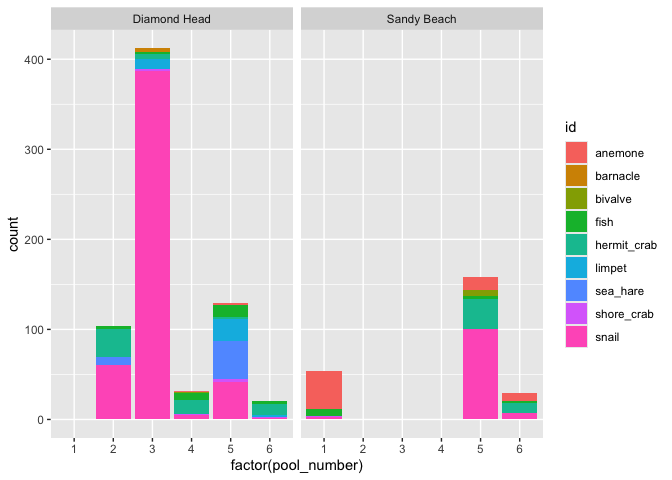
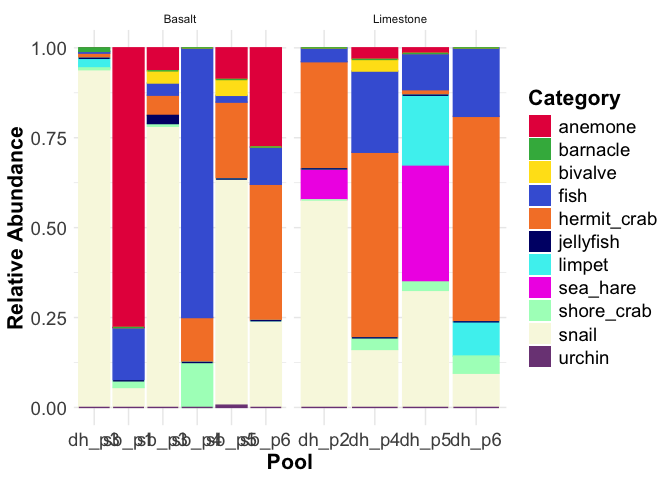
added community comp for last two pools

diff --git a/Test Sampling/Scripts/community_composition.md b/Test Sampling/Scripts/community_composition.md
@@ -7,24 +7,8 @@ Micaela Chapuis
 
 ``` r
 library(tidyverse)
-```
-
-    ## ── Attaching core tidyverse packages ──────────────────────── tidyverse 2.0.0 ──
-    ## ✔ dplyr     1.1.4     ✔ readr     2.1.5
-    ## ✔ forcats   1.0.0     ✔ stringr   1.5.1
-    ## ✔ ggplot2   3.5.1     ✔ tibble    3.2.1
-    ## ✔ lubridate 1.9.4     ✔ tidyr     1.3.1
-    ## ✔ purrr     1.0.2     
-    ## ── Conflicts ────────────────────────────────────────── tidyverse_conflicts() ──
-    ## ✖ dplyr::filter() masks stats::filter()
-    ## ✖ dplyr::lag()    masks stats::lag()
-    ## ℹ Use the conflicted package (<http://conflicted.r-lib.org/>) to force all conflicts to become errors
-
-``` r
 library(here)
 ```
-
-    ## here() starts at /Users/micachapuis/GitHub/HawaiiTidepools
 
 ## Load in Data
 
@@ -33,35 +17,25 @@ prods <- read_csv(here("Test Sampling", "Data", "producers.csv"))
 cons <- read_csv(here("Test Sampling", "Data", "consumers.csv"))
 ```
 
-``` r
-prods_summary <- prods %>% group_by(date, site, pool_number, pool_ID)  %>% summarise(prods_pcover = sum(turf_cyano_cover, macro_cover, CCA_cover))
-```
-
-    ## `summarise()` has grouped output by 'date', 'site', 'pool_number'. You can
-    ## override using the `.groups` argument.
-
-``` r
-write_csv(prods_summary, here("Test Sampling", "Data", "prodcover.csv"))
-```
-
 ## Producers
 
 ``` r
 prods_long <- prods %>%
-  select(-c("substrate_cover":"notes")) %>%
+  select(-c("rock_sand_cover":"notes")) %>%
   pivot_longer(
-    cols = c("substrate":"sponge"),
+    cols = c("rock_sand":"sponge"),
     names_to = "id",
     values_to = "num_points")
 ```
 
 ``` r
-prods_long %>% ggplot(aes(x= factor(pool_number),
+prods_long %>% ggplot(aes(x= factor(pool_ID),
                y = num_points, 
                fill= factor(id), 
                color= id)) + # set lines surrounding each color to match the fill colors 
       geom_bar(stat="identity", position="fill") + # stacked bars
-      facet_wrap(~site) + 
+      facet_wrap(~substrate, scales = "free_x",
+                 labeller = as_labeller(c(basalt = "Basalt", limestone = "Limestone"))) + 
   
       labs(x = "Pool", # labels
            y="Relative Abundance",
@@ -75,31 +49,33 @@ prods_long %>% ggplot(aes(x= factor(pool_number),
             legend.text = element_text(size = 14)) +
     
       
-      guides(color = "none") + # keep only legend for fill since fill and color are the same
-      
-      scale_fill_manual(values = c('#e6194b', '#3cb44b', '#ffe119', '#4363d8', '#f58231', '#000075', '#46f0f0', '#f032e6', '#fabebe', '#008080', '#e6beff', '#800000', '#aaffc3', '#808000', "lightblue")) +
-      
-      scale_color_manual(values = c('#e6194b', '#3cb44b', '#ffe119', '#4363d8', '#f58231', '#000075', '#46f0f0', '#f032e6', '#fabebe', '#008080', '#e6beff', '#800000', '#aaffc3', '#808000', "lightblue"))
+      guides(color = "none") #+ # keep only legend for fill since fill and color are the same
 ```
 
-![](community_composition_files/figure-gfm/unnamed-chunk-5-1.png)<!-- -->
+![](community_composition_files/figure-gfm/unnamed-chunk-4-1.png)<!-- -->
+
+``` r
+#      scale_fill_manual(values = c('#e6194b', '#3cb44b', "lightblue", '#4363d8', '#f58231', '#000075', '#46f0f0', '#f032e6', '#fabebe', '#800000', '#008080',  '#e6beff', '#aaffc3', '#ffe119' , '#808000')) +
+      
+#      scale_color_manual(values = c('#e6194b', '#3cb44b', "lightblue", '#4363d8', '#f58231', '#000075', '#46f0f0', '#f032e6', '#fabebe', '#800000', '#008080',  '#e6beff', '#aaffc3', '#ffe119' , '#808000'))
+```
 
 ``` r
 prods_cover_long <- prods %>%
-  select(-c("substrate":"total_points", "cover_sum", "notes")) %>%
+  select(-c("rock_sand":"total_points", "cover_sum", "notes")) %>%
   pivot_longer(
-    cols = c("substrate_cover":"sponge_cover"),
+    cols = c("rock_sand_cover":"slime_cover"),
     names_to = "id",
     values_to = "num_points")
 ```
 
 ``` r
-prods_cover_long %>% ggplot(aes(x= factor(pool_number),
+prods_cover_long %>% ggplot(aes(x= factor(pool_ID),
                y = num_points, 
                fill= factor(id), 
                color= id)) + # set lines surrounding each color to match the fill colors
       geom_bar(stat="identity", position="fill") + # stacked bars
-      facet_wrap(~site) +
+      facet_wrap(~substrate, scales = "free_x") +
   
       labs(x = "Pool", # labels
            y="Relative Abundance",
@@ -113,14 +89,16 @@ prods_cover_long %>% ggplot(aes(x= factor(pool_number),
             legend.text = element_text(size = 14)) +
     
       
-      guides(color = "none") + # keep only legend for fill since fill and color are the same
-      
-      scale_fill_manual(values = c('#e6194b', '#ffe119', '#3cb44b', '#fabebe', '#f58231')) +
-      
-      scale_color_manual(values = c('#e6194b', '#ffe119', '#3cb44b', '#fabebe', '#f58231'))
+      guides(color = "none") # + # keep only legend for fill since fill and color are the same
 ```
 
-![](community_composition_files/figure-gfm/unnamed-chunk-7-1.png)<!-- -->
+![](community_composition_files/figure-gfm/unnamed-chunk-6-1.png)<!-- -->
+
+``` r
+    #  scale_fill_manual(values = c('#e6194b', '#ffe119', '#3cb44b', '#fabebe', '#f58231')) +
+      
+     # scale_color_manual(values = c('#e6194b', '#ffe119', '#3cb44b', '#fabebe', '#f58231'))
+```
 
 ## Consumers
 
@@ -128,37 +106,38 @@ prods_cover_long %>% ggplot(aes(x= factor(pool_number),
 cons %>% ggplot(aes(x = factor(pool_number),
                     y = consumer_density)) +
   geom_bar(stat = "identity") +
-  facet_wrap(~site) 
+  facet_wrap(~substrate, scale = "free_x") 
 ```
 
-![](community_composition_files/figure-gfm/unnamed-chunk-8-1.png)<!-- -->
+![](community_composition_files/figure-gfm/unnamed-chunk-7-1.png)<!-- -->
 
 ``` r
 cons_long <- cons %>%
   select(-c("total_consumers":"notes")) %>%
   pivot_longer(
-    cols = c("sea_hare":"barnacle"),
+    cols = c("sea_hare":"jellyfish"),
     names_to = "id",
     values_to = "count")
 ```
 
 ``` r
-cons_long %>% ggplot(aes(x = factor(pool_number),
+cons_long %>% ggplot(aes(x = factor(pool_ID),
                     y = count , 
                     fill = id)) + 
   geom_bar(stat = "identity") +
-  facet_wrap(~site)
+  facet_wrap(~substrate, scale = "free_x")
 ```
 
-![](community_composition_files/figure-gfm/unnamed-chunk-10-1.png)<!-- -->
+![](community_composition_files/figure-gfm/unnamed-chunk-9-1.png)<!-- -->
 
 ``` r
-cons_long %>% ggplot(aes(x= factor(pool_number),
+cons_long %>% ggplot(aes(x= factor(pool_ID),
                y = count, 
                fill= factor(id), 
                color= id)) + # set lines surrounding each color to match the fill colors
       geom_bar(stat="identity", position="fill") + # stacked bars
-      facet_wrap(~site) +
+      facet_wrap(~substrate, scale = "free_x",
+                 labeller = as_labeller(c(basalt = "Basalt", limestone = "Limestone"))) +
    
       labs(x = "Pool", # labels
            y="Relative Abundance",
@@ -174,9 +153,9 @@ cons_long %>% ggplot(aes(x= factor(pool_number),
       
       guides(color = "none") + # keep only legend for fill since fill and color are the same
       
-      scale_fill_manual(values = c('#e6194b', '#3cb44b', '#ffe119', '#4363d8', '#f58231', '#000075', '#46f0f0', '#f032e6', '#aaffc3')) +
+      scale_fill_manual(values = c('#e6194b', '#3cb44b', '#ffe119', '#4363d8', '#f58231', '#000075', '#46f0f0', '#f032e6', '#aaffc3', "#F8F8E1", "#7C4585")) +
       
-      scale_color_manual(values = c('#e6194b', '#3cb44b', '#ffe119', '#4363d8', '#f58231', '#000075', '#46f0f0', '#f032e6', '#aaffc3'))
+      scale_color_manual(values = c('#e6194b', '#3cb44b', '#ffe119', '#4363d8', '#f58231', '#000075', '#46f0f0', '#f032e6', '#aaffc3', "#F8F8E1", "#7C4585"))
 ```
 
-![](community_composition_files/figure-gfm/unnamed-chunk-11-1.png)<!-- -->
+![](community_composition_files/figure-gfm/unnamed-chunk-10-1.png)<!-- -->
